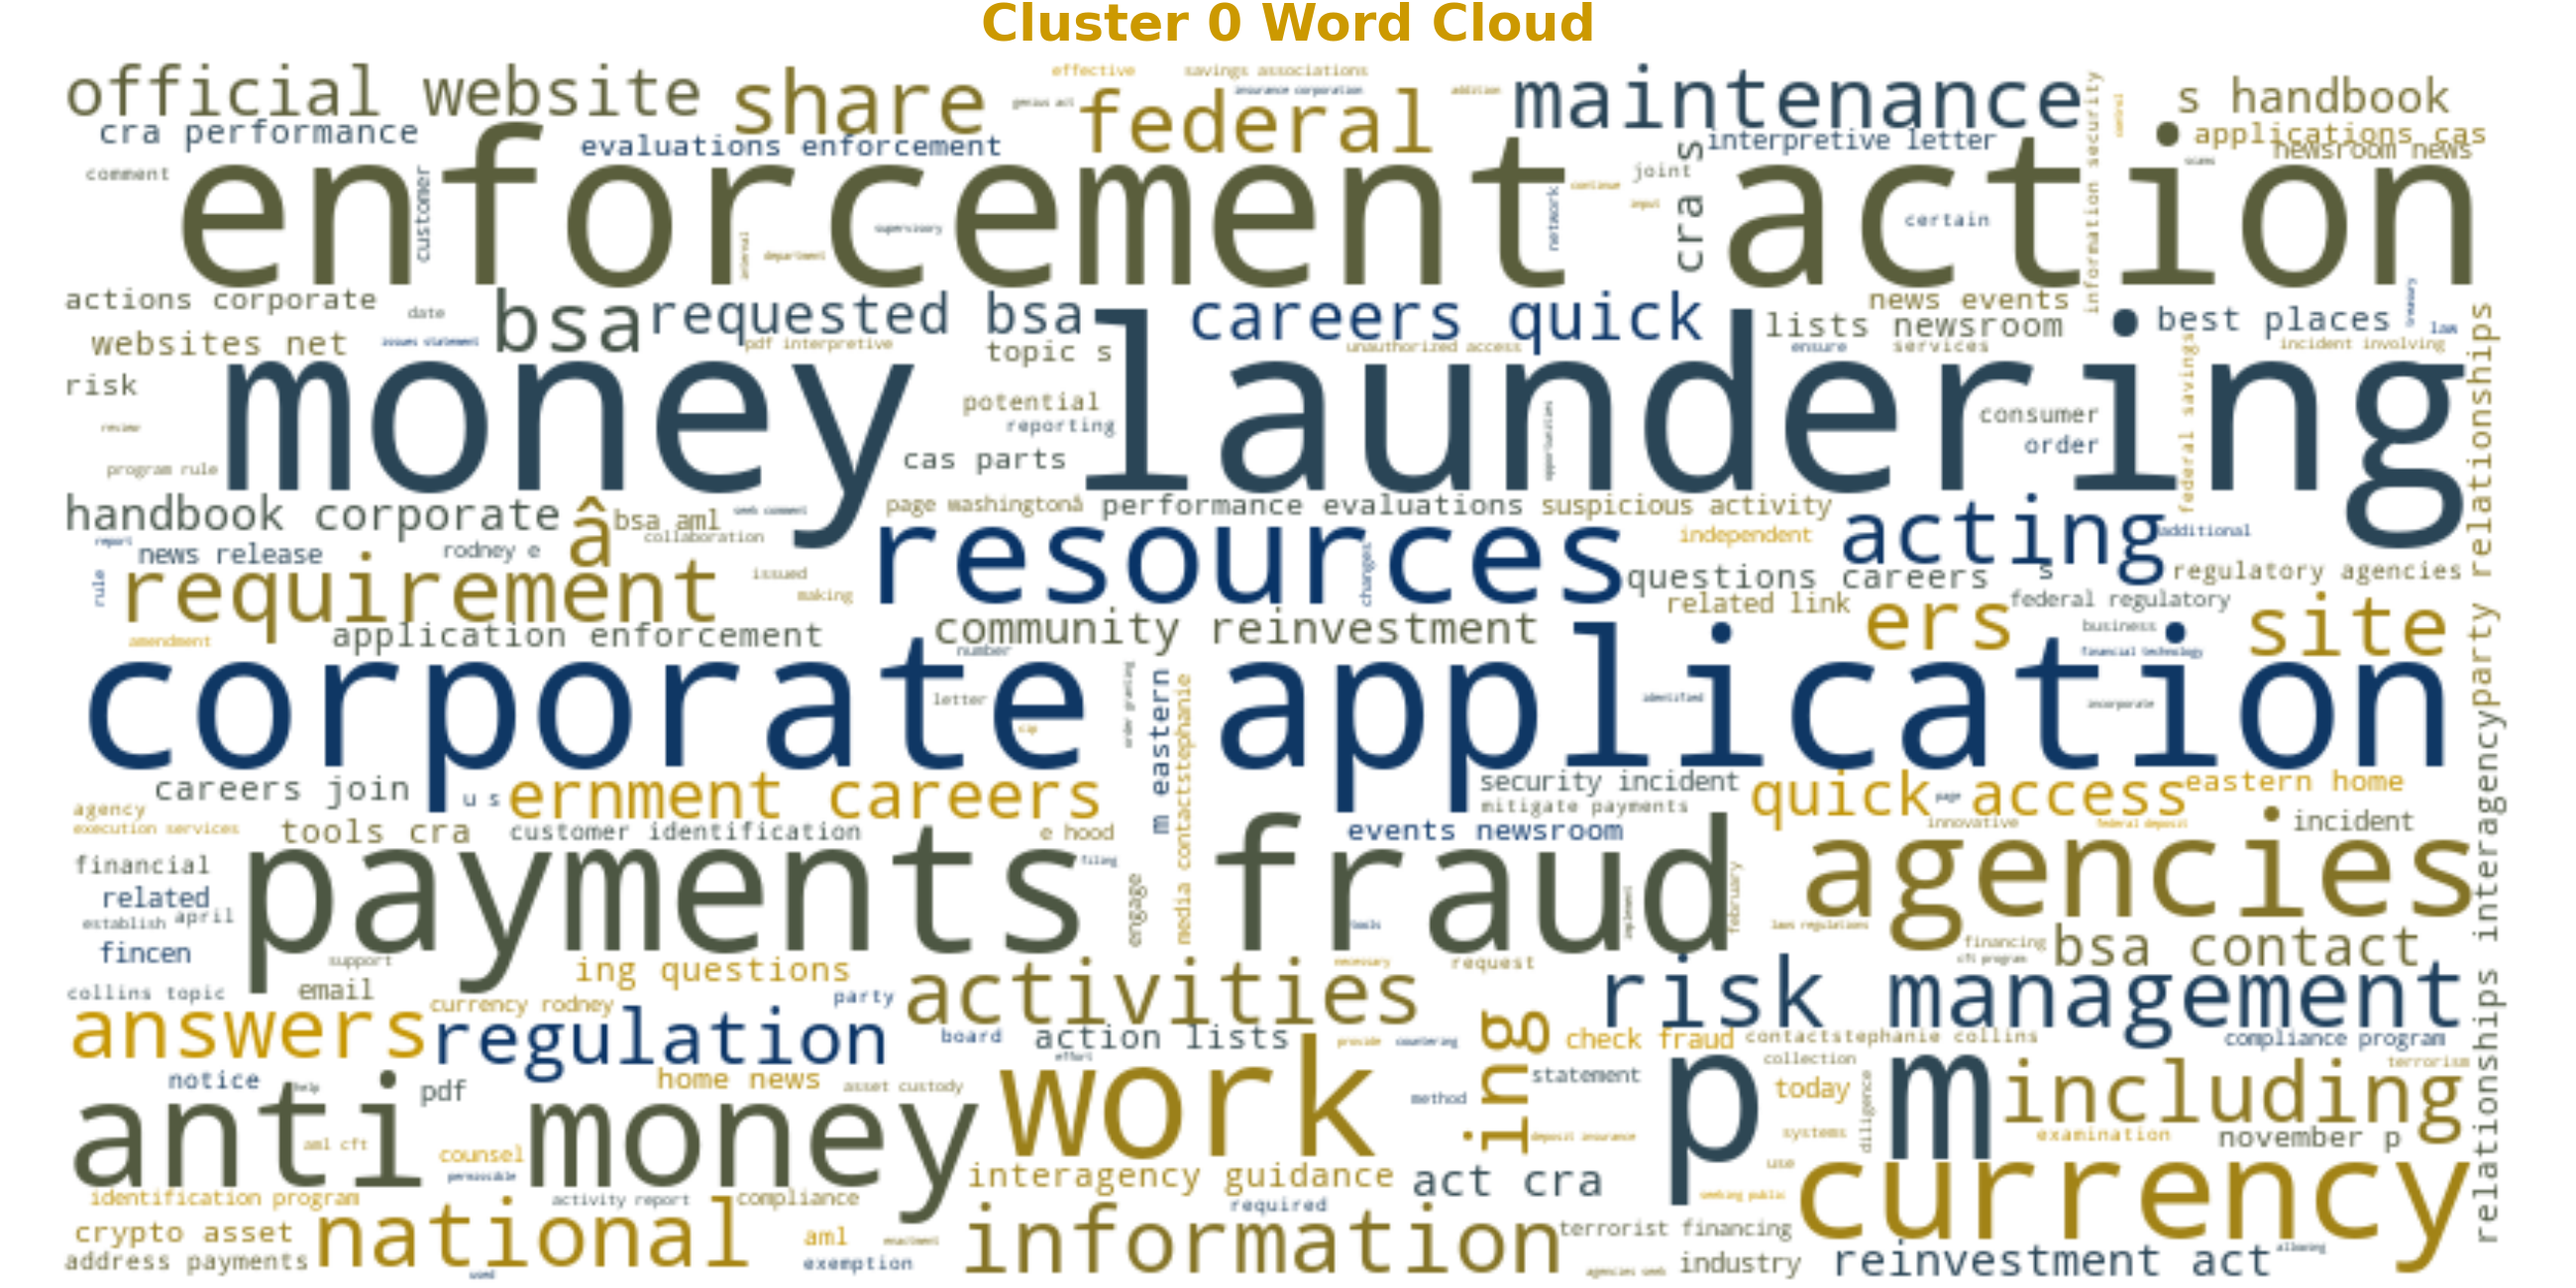
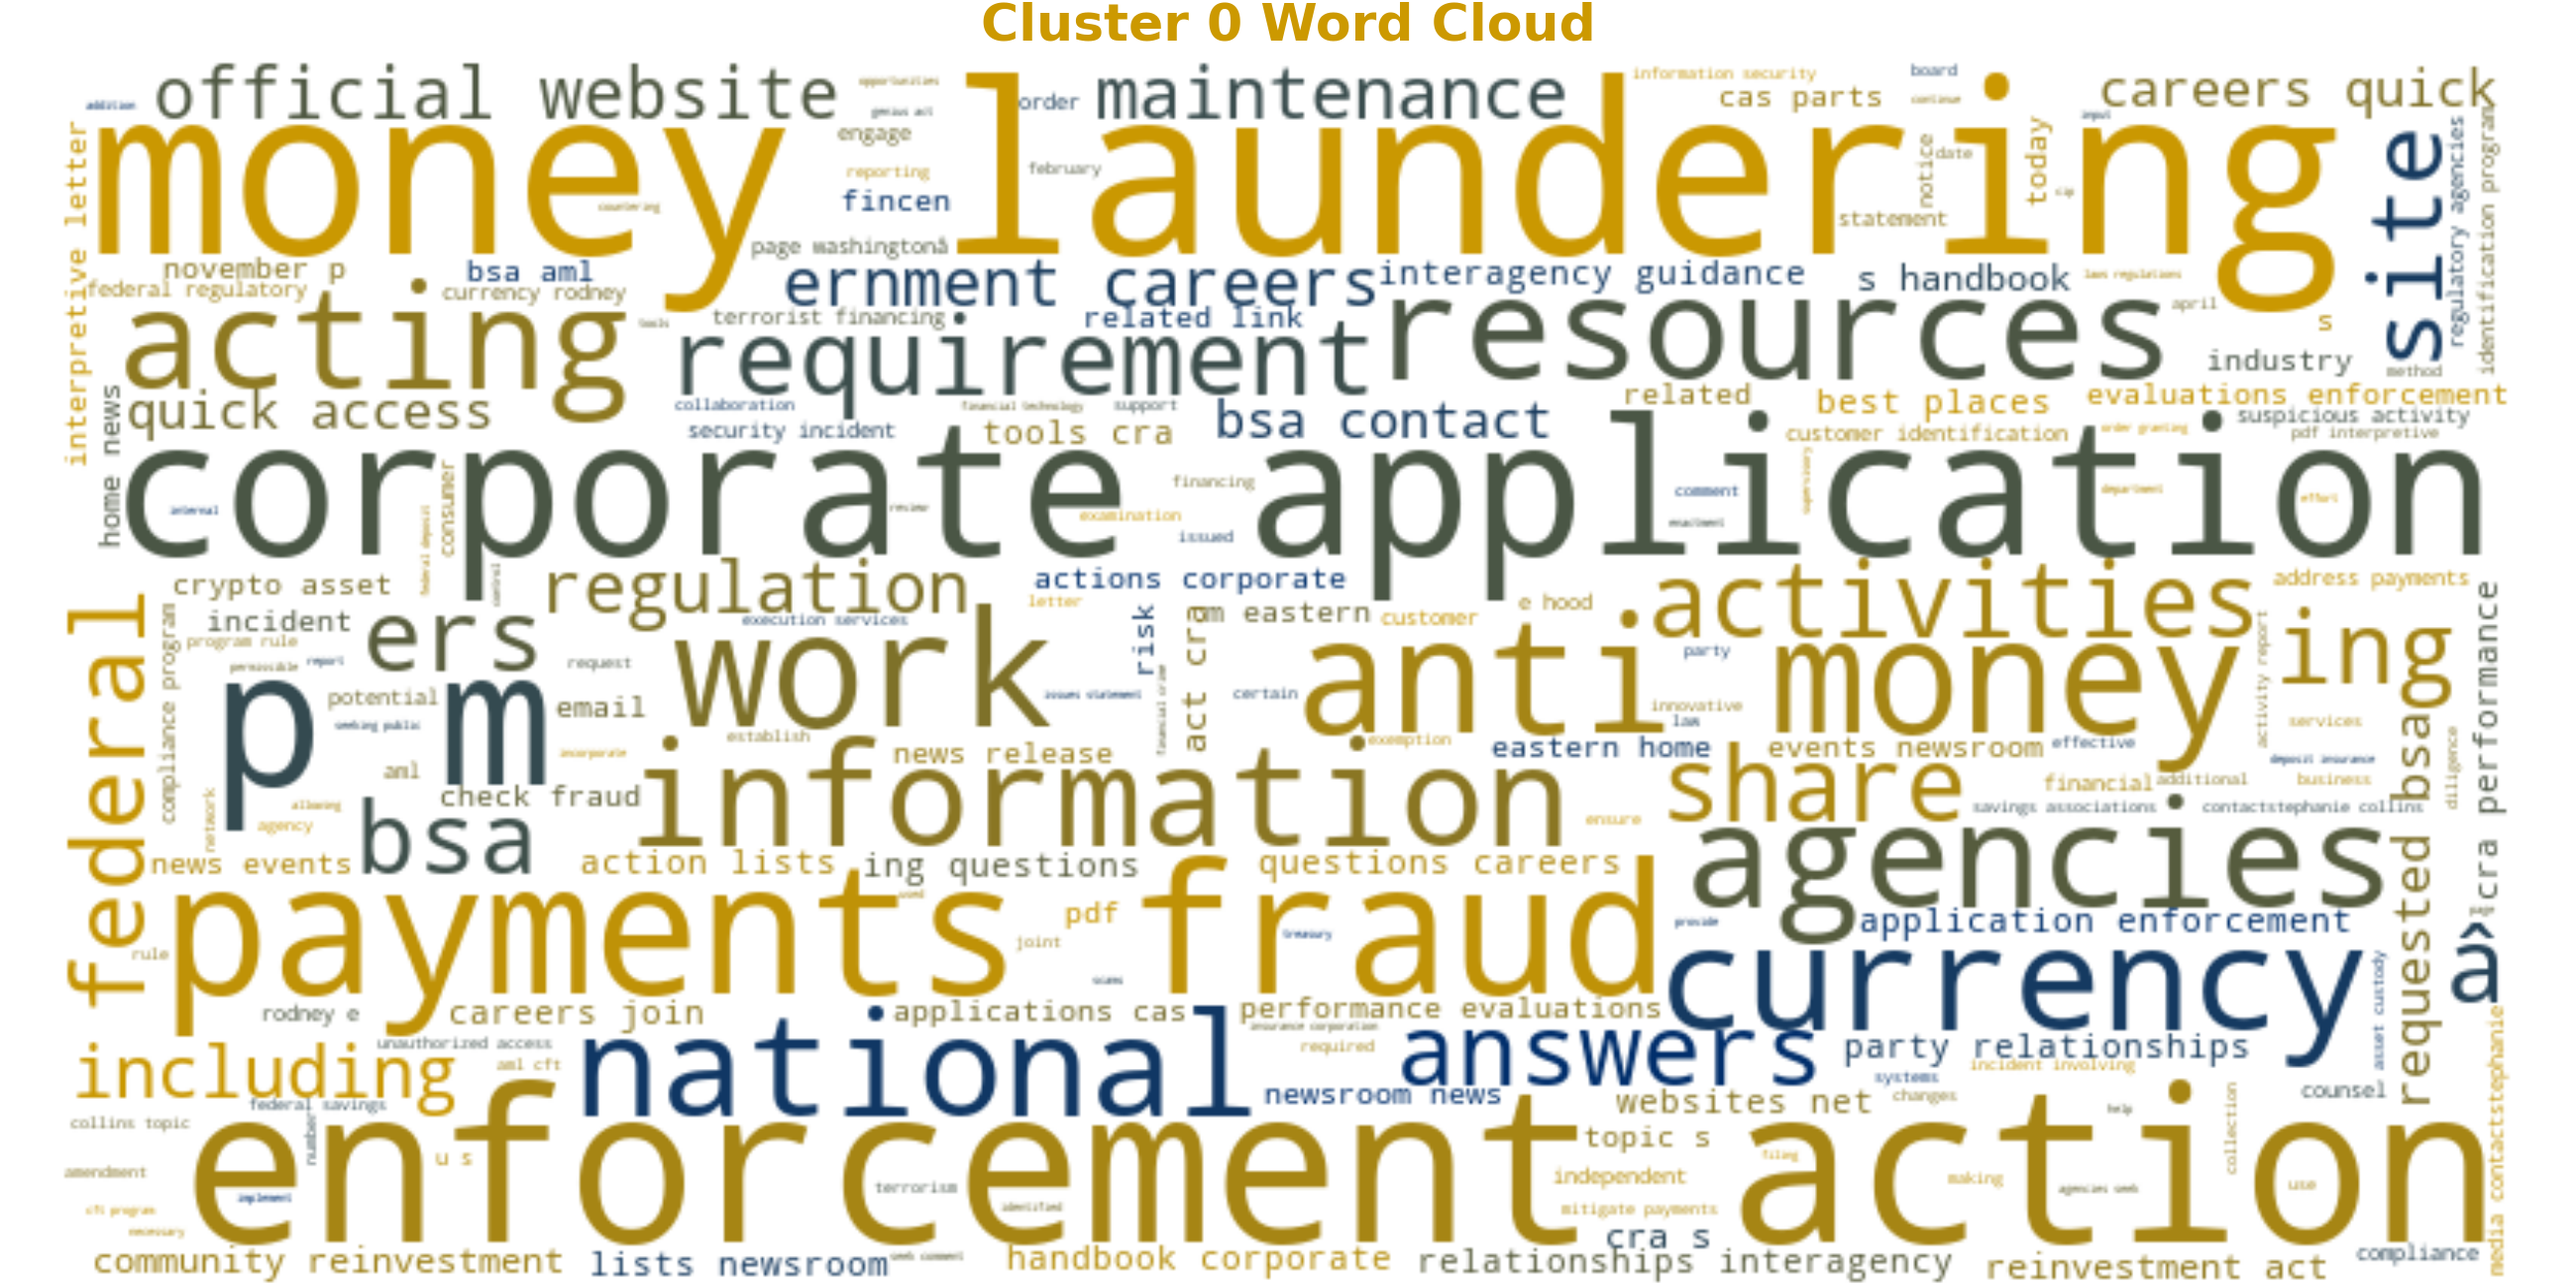
additional keyword cleanup

diff --git a/analysis.py b/analysis.py
@@ -112,7 +112,8 @@ def clean_text_strong(text):
                     "proposed rule", "financial institution", "comptroller", "fdic",
                     "united states", "federal reserve", "secrecy act", "bank secrecy", "office",
                     "helpwithmybank", "banks", "search", "gov", "bank", "organization", "currency"
-                    "management", "office currency", "custody services", "occ"]
+                    "management", "office currency", "custody services", "occ", 
+                    "reputation", "risk management"]
     for jp in junk_phrases: text = text.replace(jp, " ")
     words = [w for w in text.split() if w not in EXTRA_STOPS]
     return " ".join(words)
